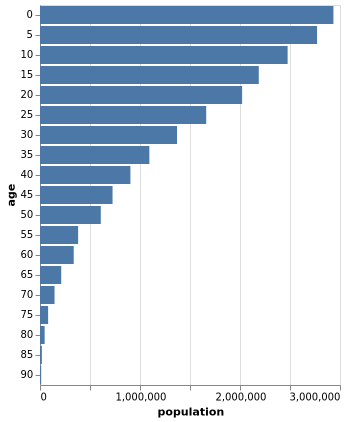
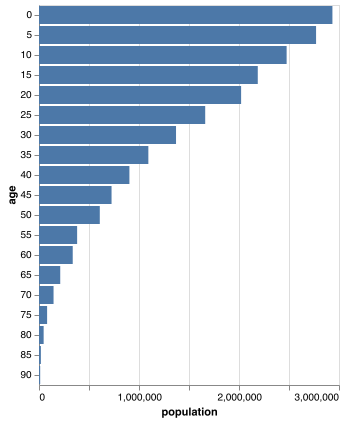
fix(animation): rewrite pre-aggregation sort fields when rescaling a domain
A band domain sorted by another field reads the raw source, where the
sort field exists. Redirecting it to the post-aggregate frame dataset
left the sort reading a missing field, so it silently degraded to data
order and a racing bar chart never reordered. The sort now reads the
aggregate's output field, or the domain keeps the full data with a
warning when no aggregate output matches.

diff --git a/src/compile/scale/domain.ts b/src/compile/scale/domain.ts
@@ -10,7 +10,14 @@ import {
   MULTIDOMAIN_SORT_OP_INDEX as UNIONDOMAIN_SORT_OP_INDEX,
 } from '../../aggregate.js';
 import {isBinning, isBinParams, isParameterExtent} from '../../bin.js';
-import {getSecondaryRangeChannel, isScaleChannel, isXorY, ScaleChannel, TIME} from '../../channel.js';
+import {
+  getSecondaryRangeChannel,
+  isScaleChannel,
+  isSingleDefUnitChannel,
+  isXorY,
+  ScaleChannel,
+  TIME,
+} from '../../channel.js';
 import {
   binRequiresRange,
   getBandPosition,
@@ -27,6 +34,7 @@ import {
 } from '../../channeldef.js';
 import {CompositeAggregate} from '../../compositemark/index.js';
 import {DataSourceType} from '../../data.js';
+import {isAggregate} from '../../encoding.js';
 import {DateTime} from '../../datetime.js';
 import {ExprRef} from '../../expr.js';
 import * as log from '../../log/index.js';
@@ -738,6 +746,39 @@ function animationRescale(model: Model, channel: ScaleChannel): {sources: Set<st
   };
 }
 
+/**
+ * Rewrites a domain's sort so it still works on the frame dataset, whose rows
+ * are the unit's aggregated output. A sort like `{op: "sum", field: "people"}`
+ * reads the raw source, where `people` exists; the frame dataset instead
+ * carries the aggregate's output field (`sum_people`), one row per category
+ * per frame, so the sort becomes `{op: "max", field: "sum_people"}`.
+ *
+ * Returns the rewritten sort, undefined when the sort needs no rewrite, or
+ * null when the sort field does not exist on the frame dataset and cannot be
+ * mapped onto it.
+ */
+function rescaledDomainSort(model: Model, sort: any): any | null | undefined {
+  if (!isObject(sort) || !(sort as any).field || !(sort as any).op) {
+    return undefined;
+  }
+
+  if (!isUnitModel(model) || !isAggregate(model.encoding)) {
+    // no aggregation, so the sort field passes through to the frame dataset
+    return undefined;
+  }
+
+  for (const channel of util.keys(model.encoding)) {
+    if (!isSingleDefUnitChannel(channel)) continue;
+    const fieldDef = model.fieldDef(channel);
+    if (fieldDef?.aggregate === (sort as any).op && fieldDef.field === (sort as any).field) {
+      // one row per category per frame, so max reads that row's value
+      return {...(sort as any), op: 'max', field: model.vgField(channel)};
+    }
+  }
+
+  return null;
+}
+
 export function assembleDomain(model: Model, channel: ScaleChannel) {
   const scaleComponent: ScaleComponent = model.component.scales[channel];
   const rescale = animationRescale(model, channel);
@@ -750,7 +791,15 @@ export function assembleDomain(model: Model, channel: ScaleChannel) {
       domain.data = model.lookupDataSource(domain.data);
 
       if (rescale?.sources.has(domain.data)) {
-        domain.data = rescale.frame;
+        const sort = rescaledDomainSort(model, (domain as any).sort);
+        if (sort === null) {
+          log.warn(log.message.animationRescaleSortDropped(channel, (domain as any).sort.field));
+        } else {
+          domain.data = rescale.frame;
+          if (sort !== undefined) {
+            (domain as any).sort = sort;
+          }
+        }
       }
     }
 

diff --git a/test/compile/animation.test.ts b/test/compile/animation.test.ts
@@ -173,6 +173,26 @@ describe('animation', () => {
       expect(scaleDomains(racingBars(true)).y).toMatch(/_curr$/);
     });
 
+    it('rewrites a sort over a pre-aggregation field onto the frame dataset', () => {
+      // the sort reads the raw source, where `people` exists; the frame dataset
+      // carries the aggregate's output, so the sort has to read `sum_people`
+      const compiled = compile({
+        data: {url: 'data/population.json'},
+        params: [{name: 'frame', select: {type: 'point', fields: ['year'], on: 'timer'}}],
+        transform: [{filter: {param: 'frame'}}],
+        mark: 'bar',
+        encoding: {
+          x: {aggregate: 'sum', field: 'people', type: 'quantitative'},
+          y: {field: 'age', type: 'ordinal', sort: {field: 'people', op: 'sum', order: 'descending'}},
+          time: {field: 'year', type: 'ordinal', rescale: true},
+        },
+      } as TopLevelSpec).spec;
+
+      const y = compiled.scales.find((s) => s.name === 'y').domain as any;
+      expect(y.data).toMatch(/_curr$/);
+      expect(y.sort).toEqual({field: 'sum_people', op: 'max', order: 'descending'});
+    });
+
     it('leaves scales with a discrete range alone', () => {
       // interpolating between an ordinal scale's outputs is not meaningful
       expect(scaleDomains(racingBars(true)).color).not.toMatch(/_curr$/);

diff --git a/src/log/message.ts b/src/log/message.ts
@@ -127,6 +127,13 @@ export function stepRangeRequiresTimeChannel(channel: string) {
   );
 }
 
+export function animationRescaleSortDropped(channel: string, field: string) {
+  return (
+    `The "${channel}" scale domain cannot be recomputed per frame, because its sort ` +
+    `reads ${stringValue(field)}, which does not exist on the frame dataset. Keeping the full domain.`
+  );
+}
+
 export function selectionAsScaleDomainWithoutField(field: string) {
   return (
     'A "field" or "encoding" must be specified when using a selection as a scale domain. ' +
